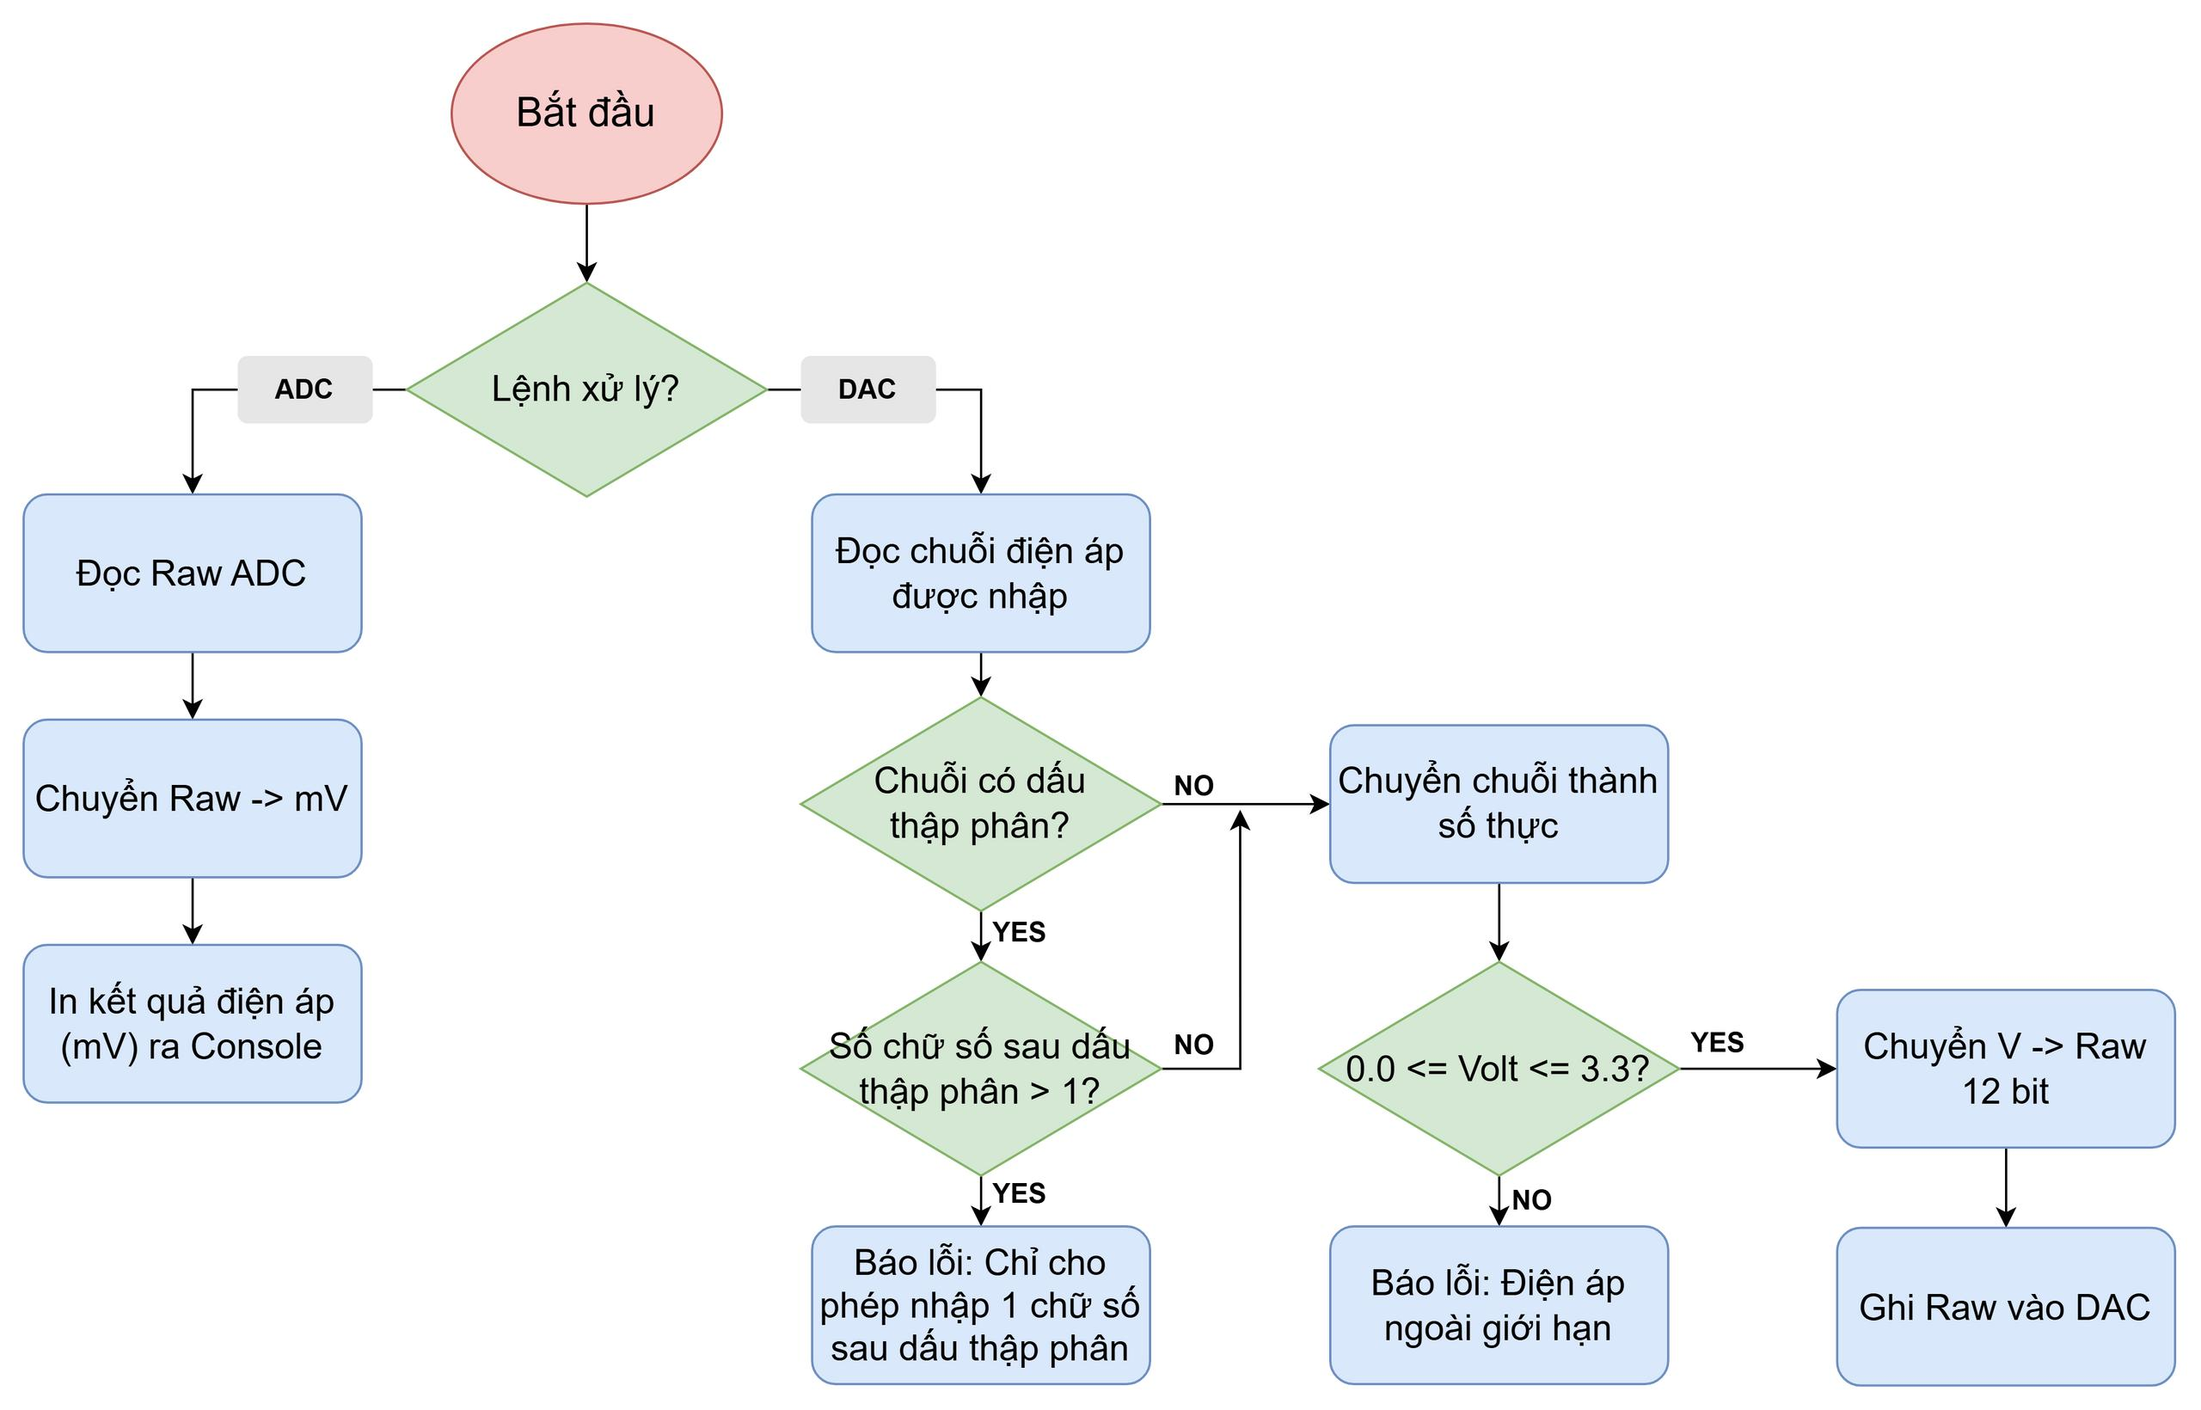
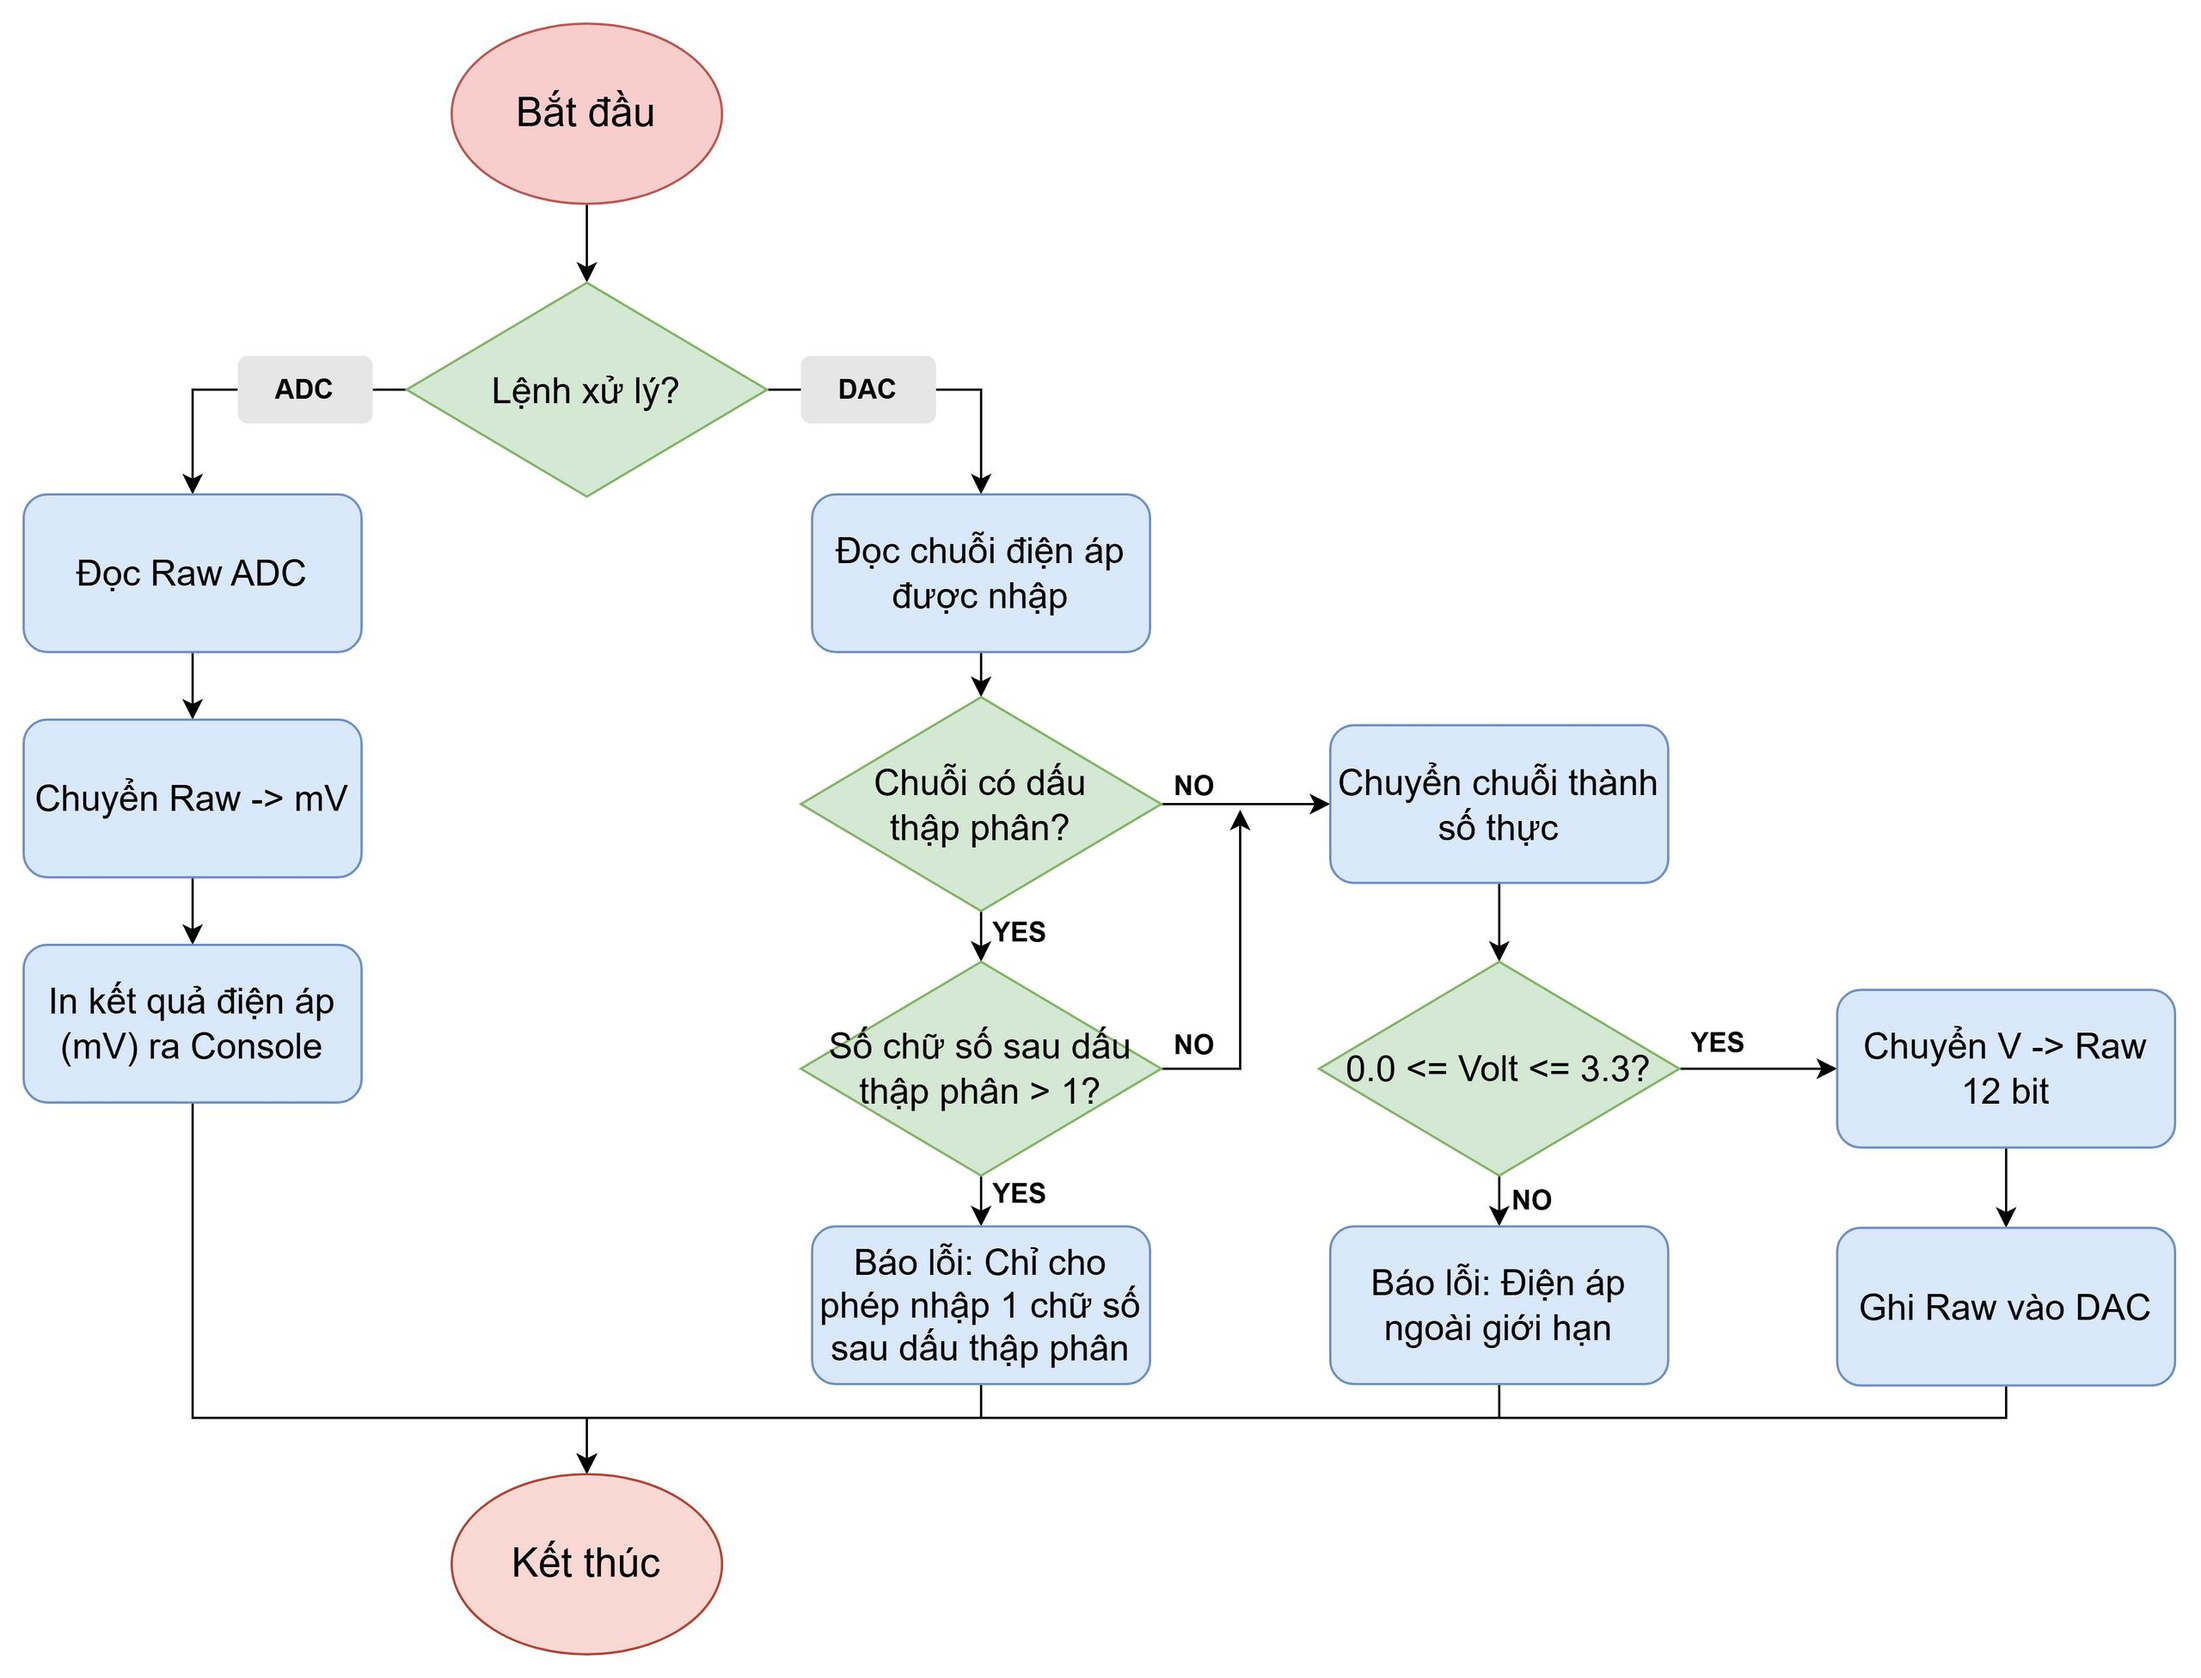
Report/Doc: Update image for ADC/DAC to have a Finish state

Changed region(s): [[0.0, 0.0311, 0.7812, 0.9951], [0.8125, 0.5909, 1.0, 0.9951], [0.2188, 0.0, 0.3125, 0.0311]]

diff --git a/Report/Doc/chuong4.tex b/Report/Doc/chuong4.tex
@@ -132,7 +132,7 @@ Quá trình này tiếp tục cho đến khi toàn bộ số byte tương ứng 
 \subsection{Xử lý ADC/DAC}
 \begin{figure}[H]
     \centering
-    \includegraphics[width=1\textwidth]{image/hil_adc_dac.jpg}
+    \includegraphics[width=0.9\textwidth]{image/hil_adc_dac.jpg}
     \caption{Lưu đồ giải thuật xử lý ADC và DAC}
     \label{fig:hil_adc_dac}
 \end{figure}
